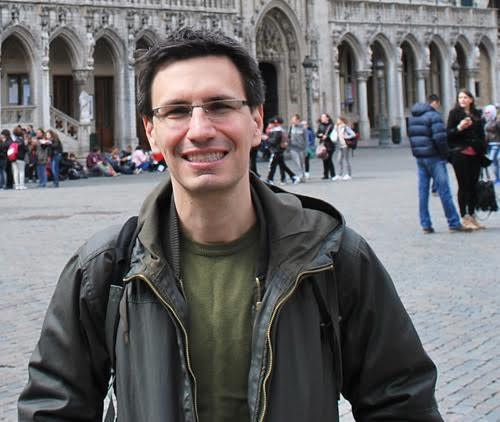
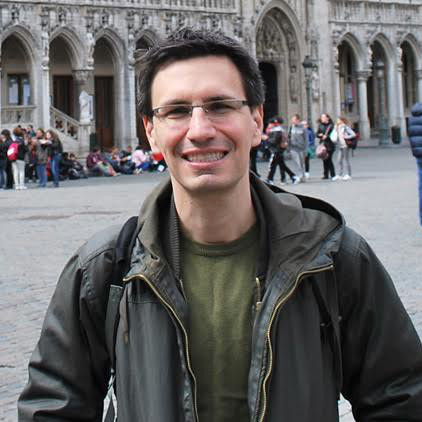
Updated team page
- used new team photos
- applied separate about-page template that scopes team-specific CSS
  inside a team class

diff --git a/about.md b/about.md
@@ -1,6 +1,6 @@
 ---
 title: About the Coral Project
-layout: page
+layout: about-page
 permalink: /about
 md: true
 bg-img-lg: /images/learnmore-lg.jpg
@@ -42,7 +42,7 @@ And the name? Coral’s intricate reef systems protect shorelines from natural d
 ### Greg Barber, Head of Strategy and Partnerships
 "I’ve made a career of startups within news organizations. When not working with The Coral Project, I’m focused on interactivity, personalization, and news games as Director of Digital News Projects at The Washington Post."
 
-![Emma Grdina]({{"/images/team/Emma.png" | prepend: site.baseurl}}) 
+![Emma Grdina]({{"/images/team/Emma.jpg" | prepend: site.baseurl}}) 
 
 ### Emma Grdina, Lead Designer
 "I’m interested in using design to create engaging online spaces that people look forward to visiting. Currently I work on the Digital Design team at The Washington Post."
@@ -62,7 +62,7 @@ And the name? Coral’s intricate reef systems protect shorelines from natural d
 ### Riley Davis, Full-Stack Developer
 "I like building things. Formerly of Tumblr and the New York Times, creating data visualizations and general digital goods."
 
-![Dan Zajdband ]({{"/images/team/Dan.png" | prepend: site.baseurl}}) 
+![Dan Zajdband ]({{"/images/team/Dan.jpg" | prepend: site.baseurl}}) 
 
 ### Dan Zajdband, Knight-Mozilla OpenNews Fellow
 "I’m a software developer passionate about real-time technologies, open source projects and Open Journalism. I create digital tools for people to express their ideas in different and creative ways. In my spare time, I do things I can’t do well, like playing soccer and the guitar."
